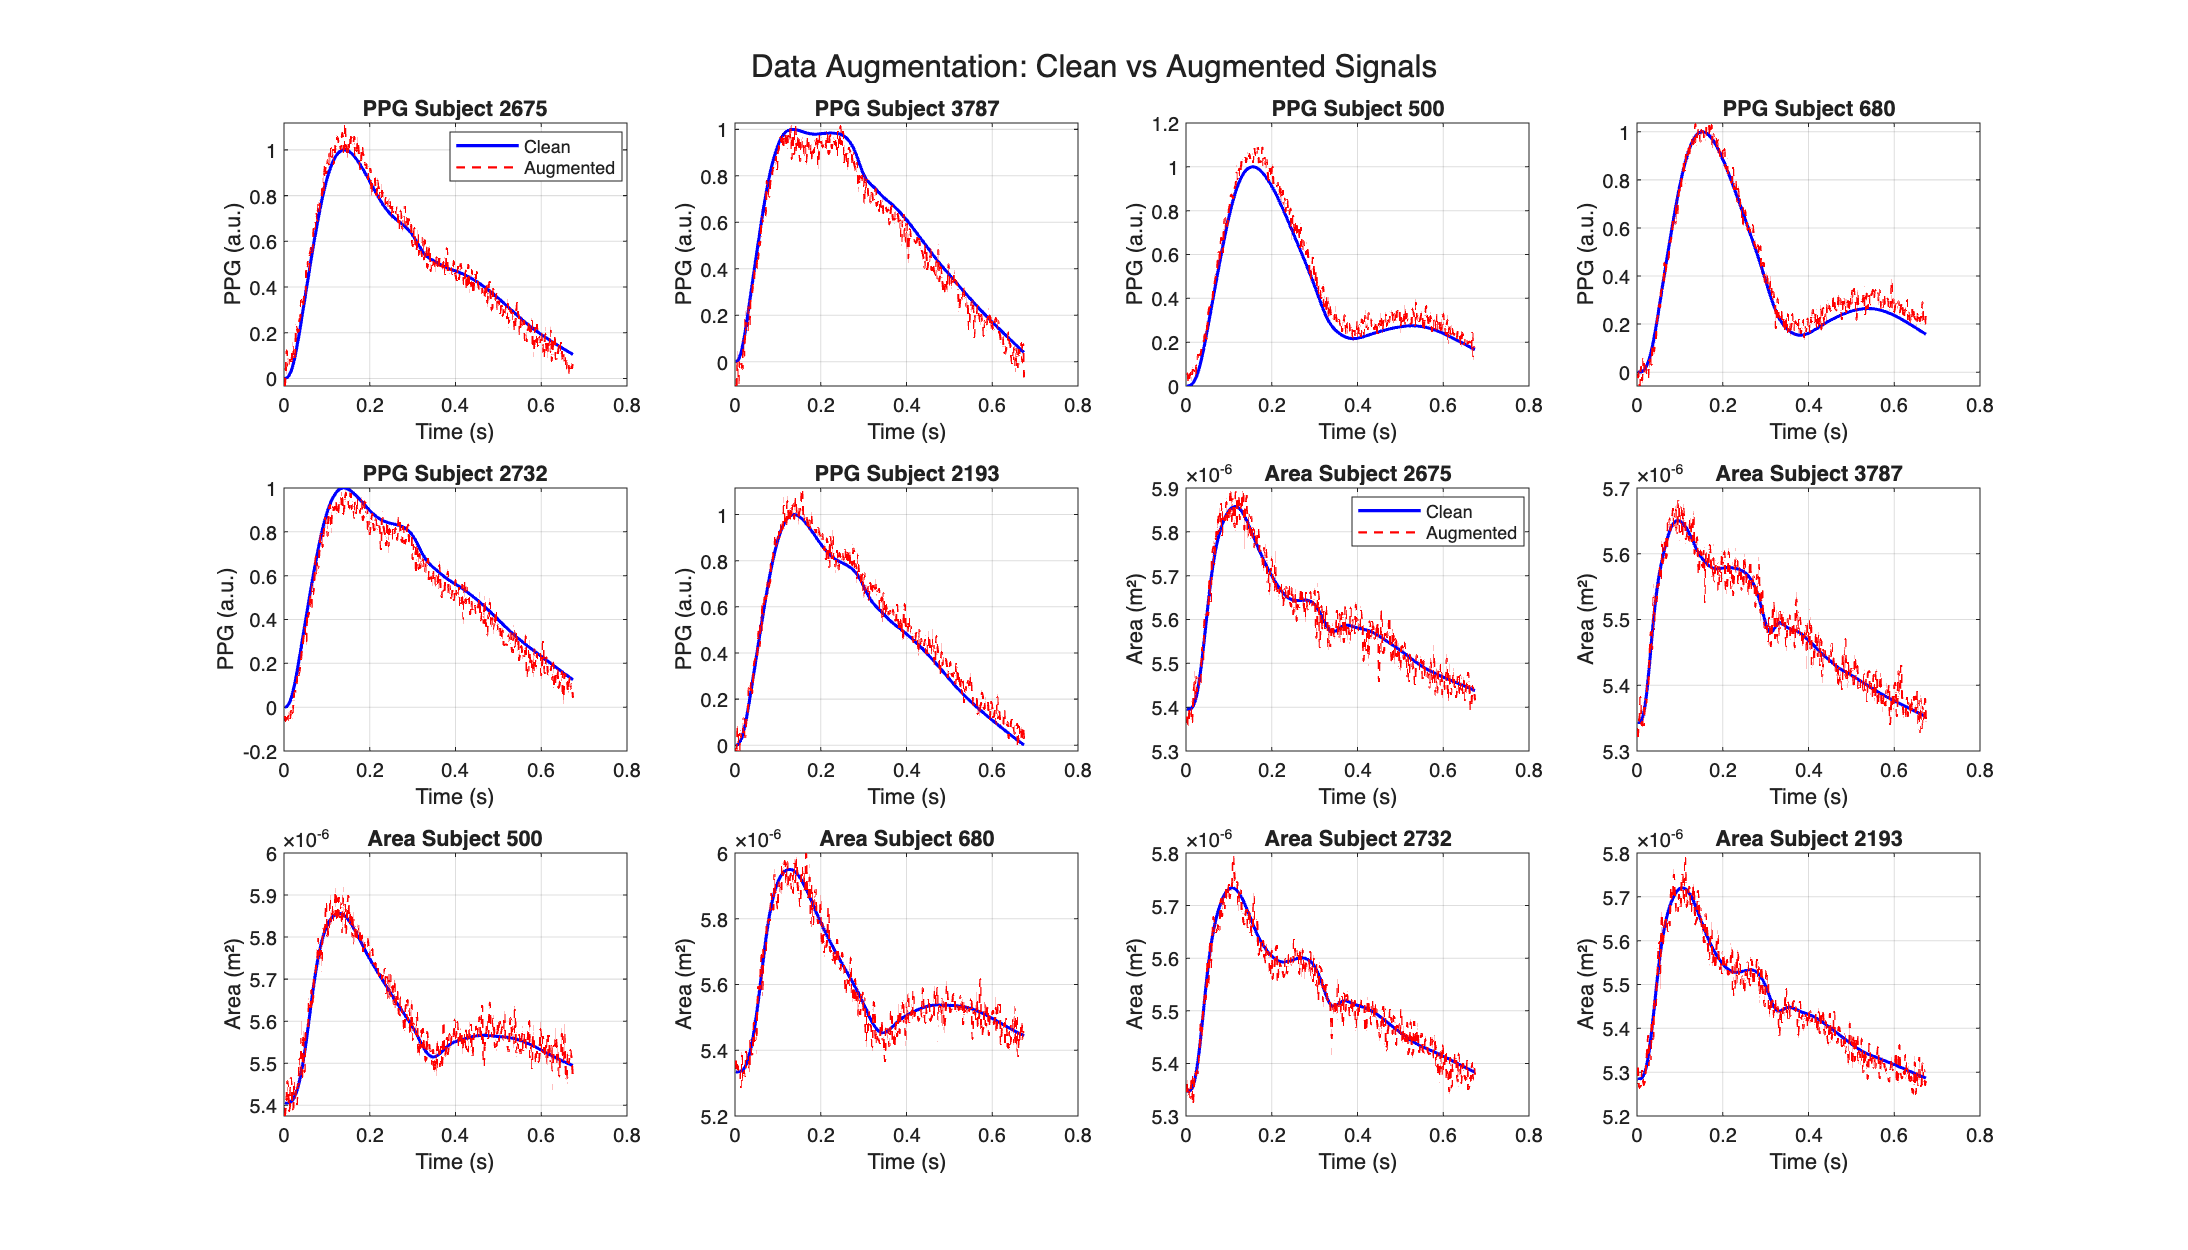
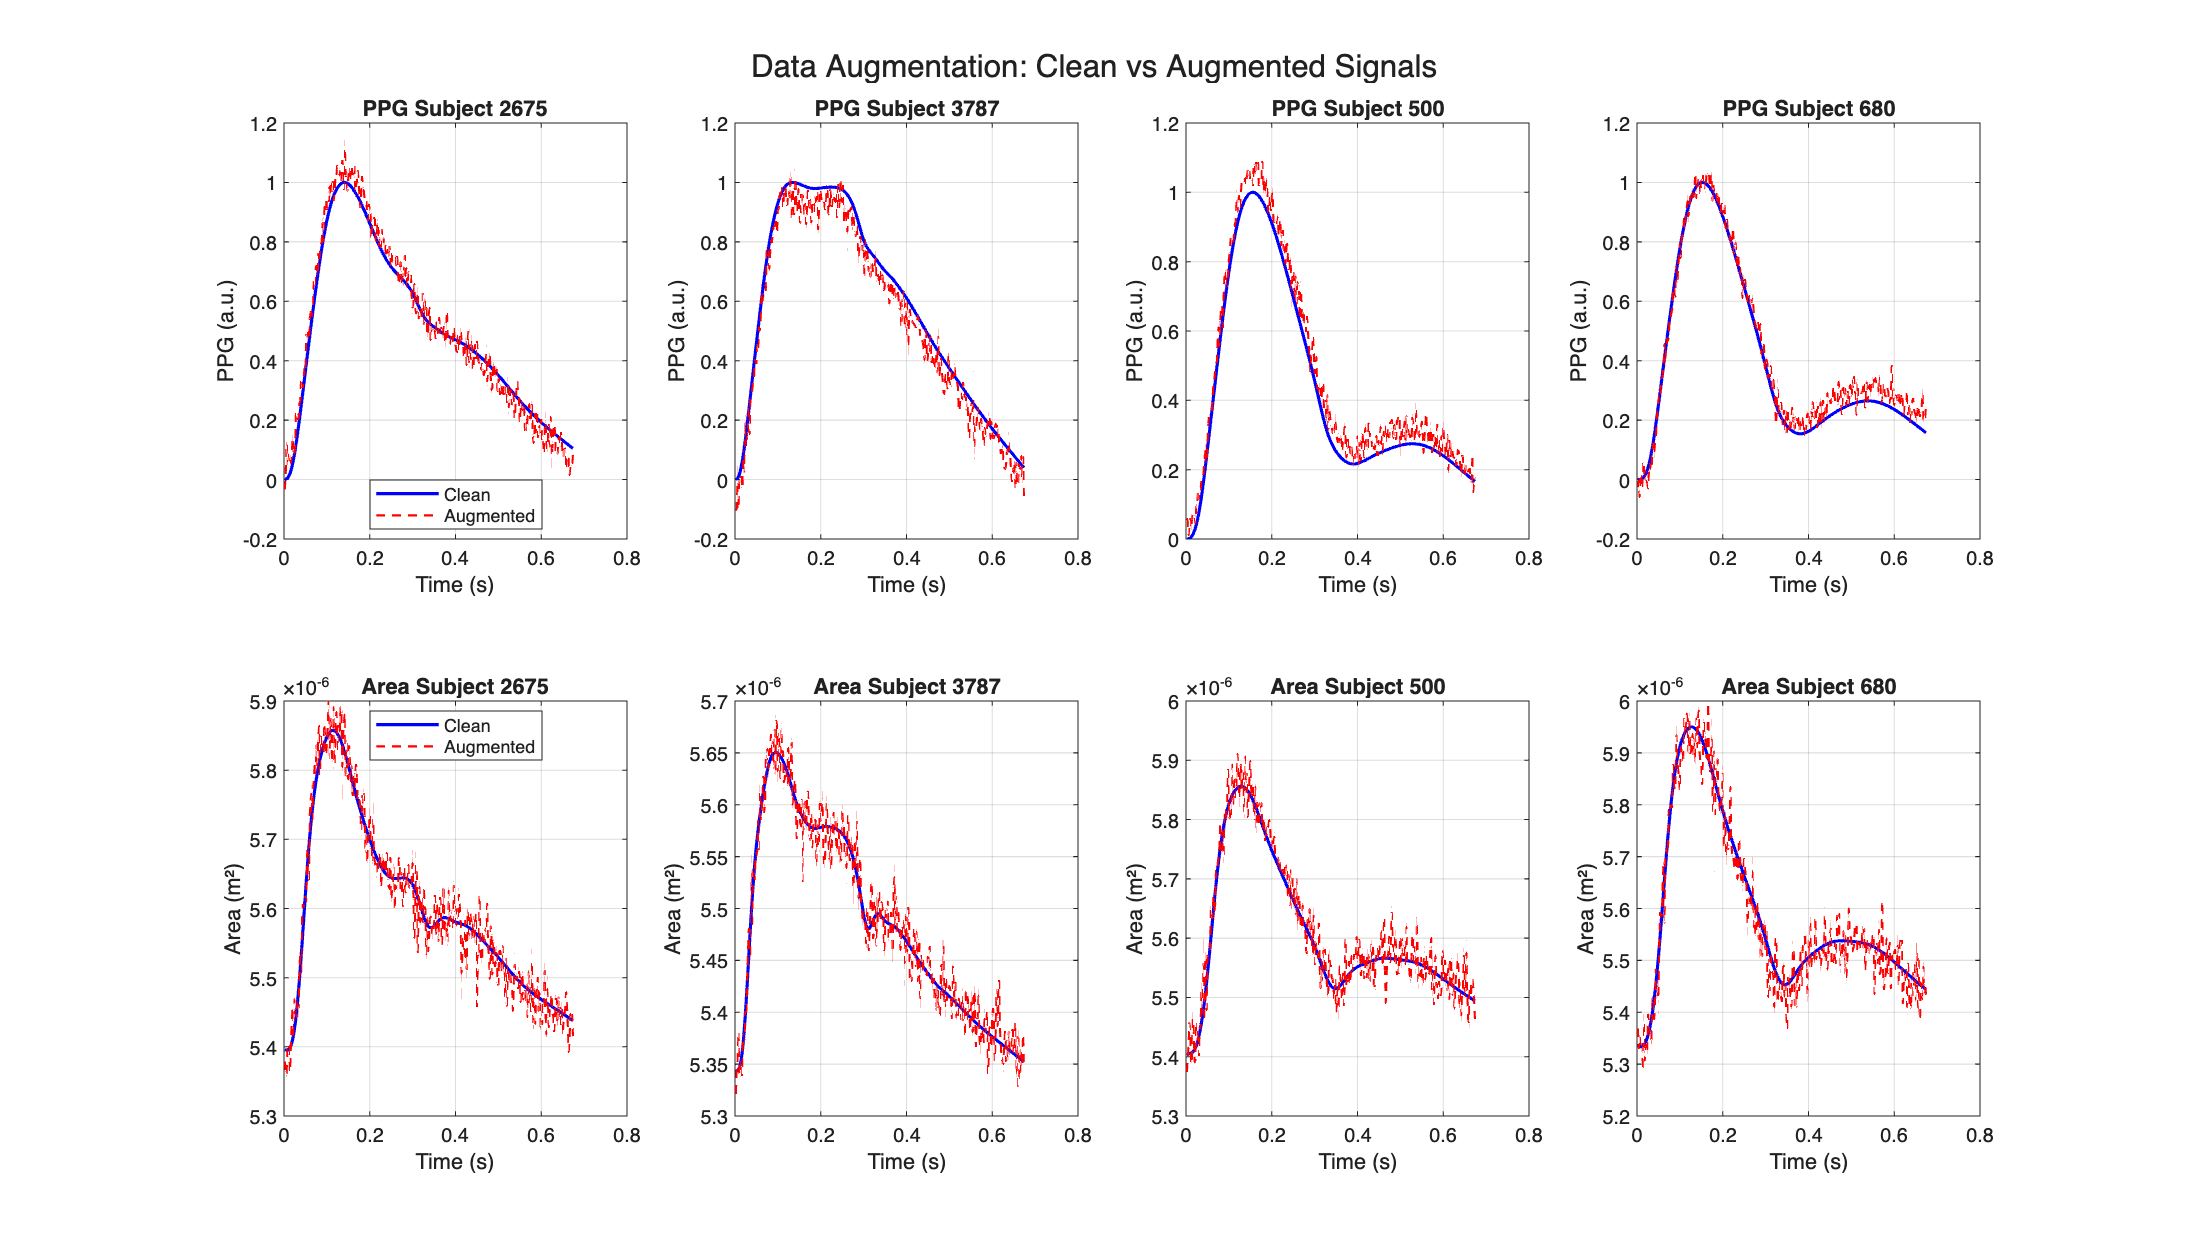
Update clearer image of data_augmentation

diff --git a/src/part7_data_augmentation.m b/src/part7_data_augmentation.m
@@ -83,13 +83,13 @@ waves_augmented.PPG_Radial = X_ppg_aug;
 waves_augmented.A_Radial = X_area_aug;
 PWV_cf_augmented = y_aug;
 
-% Visualization
+% Example Visualization
 figure('Position', [100, 100, 1400, 800]);
-sample_idx = randperm(N_aug, 6);
+sample_idx = randperm(N_aug, 5);
 t_plot = (1:T_aug)/fs;
 
-for i = 1:6
-    subplot(3,4,i);
+for i = 1:4
+    subplot(2,4,i);
     plot(t_plot, X_ppg_clean(sample_idx(i),:), 'b-', 'LineWidth', 1.5); hold on;
     plot(t_plot, X_ppg_aug(sample_idx(i),:), 'r--', 'LineWidth', 1);
     title(sprintf('PPG Subject %d', sample_idx(i)));
@@ -98,8 +98,8 @@ for i = 1:6
     grid on;
 end
 
-for i = 1:6
-    subplot(3,4,i+6);
+for i = 1:4
+    subplot(2,4,i+4);
     plot(t_plot, X_area_clean(sample_idx(i),:), 'b-', 'LineWidth', 1.5); hold on;
     plot(t_plot, X_area_aug(sample_idx(i),:), 'r--', 'LineWidth', 1);
     title(sprintf('Area Subject %d', sample_idx(i)));
